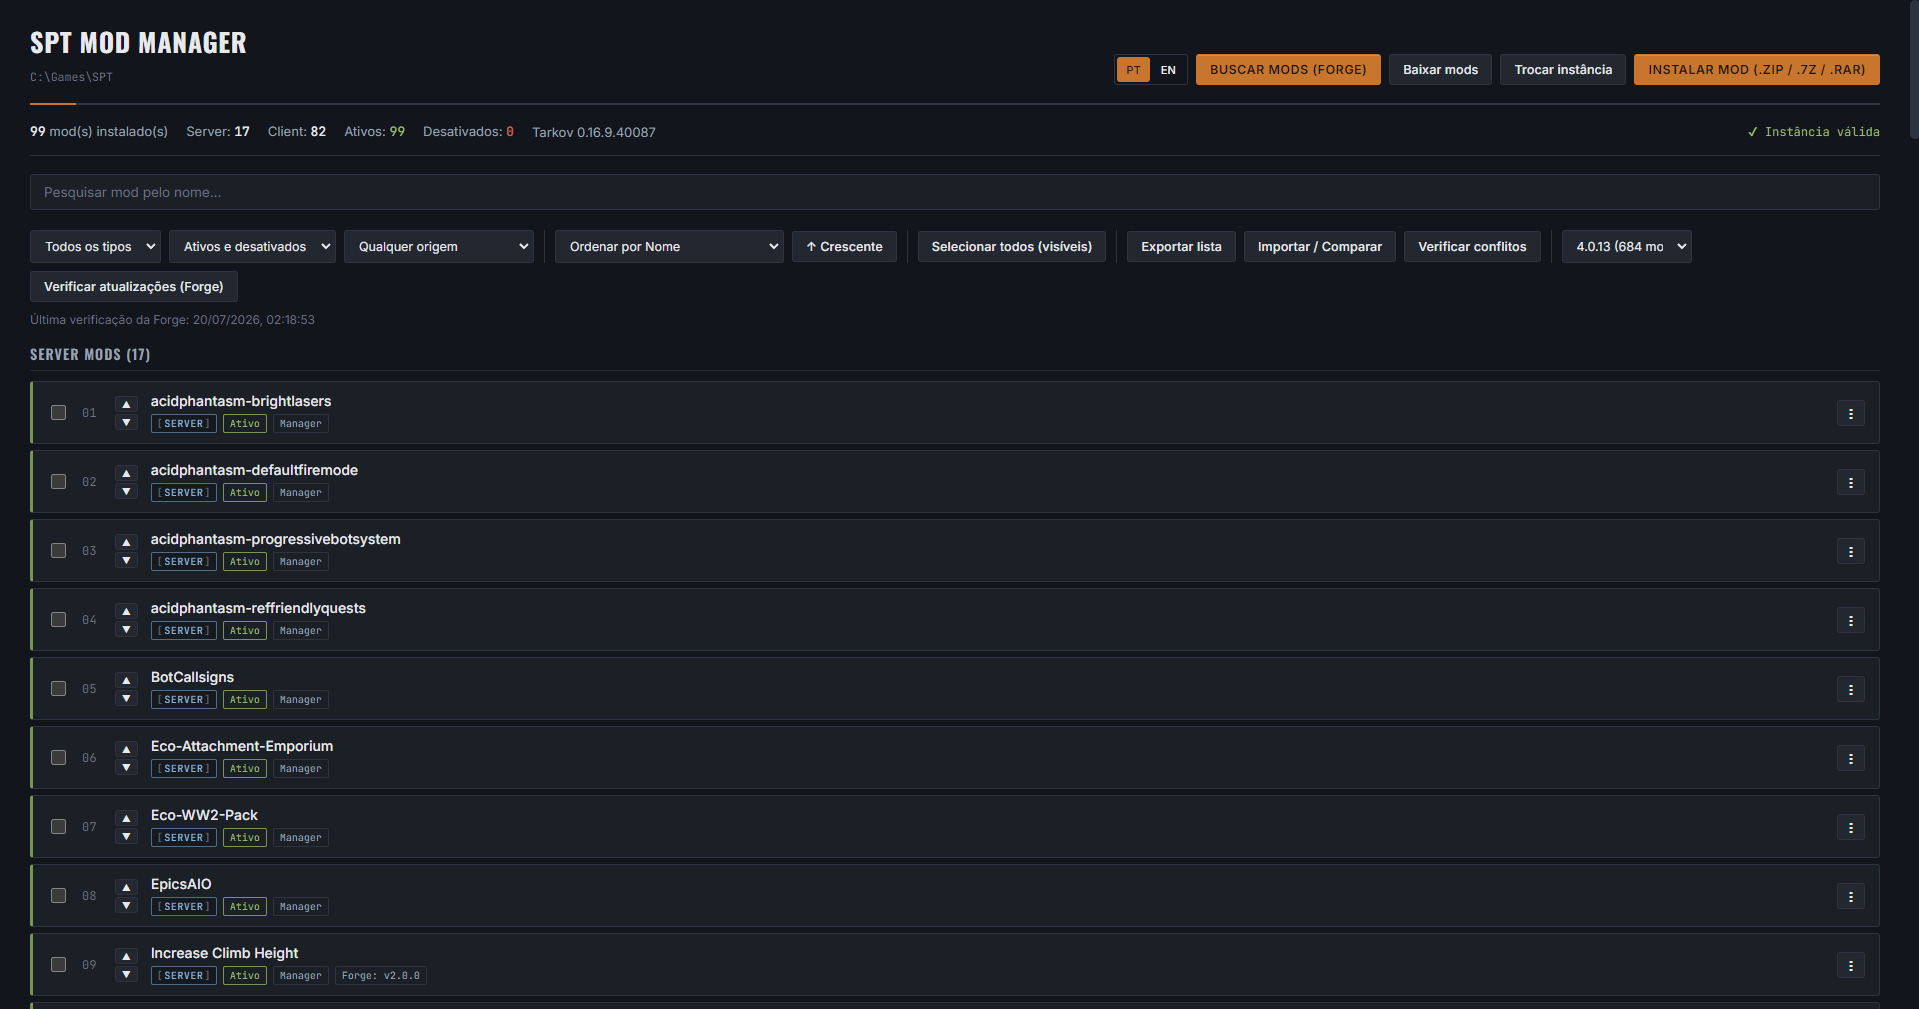
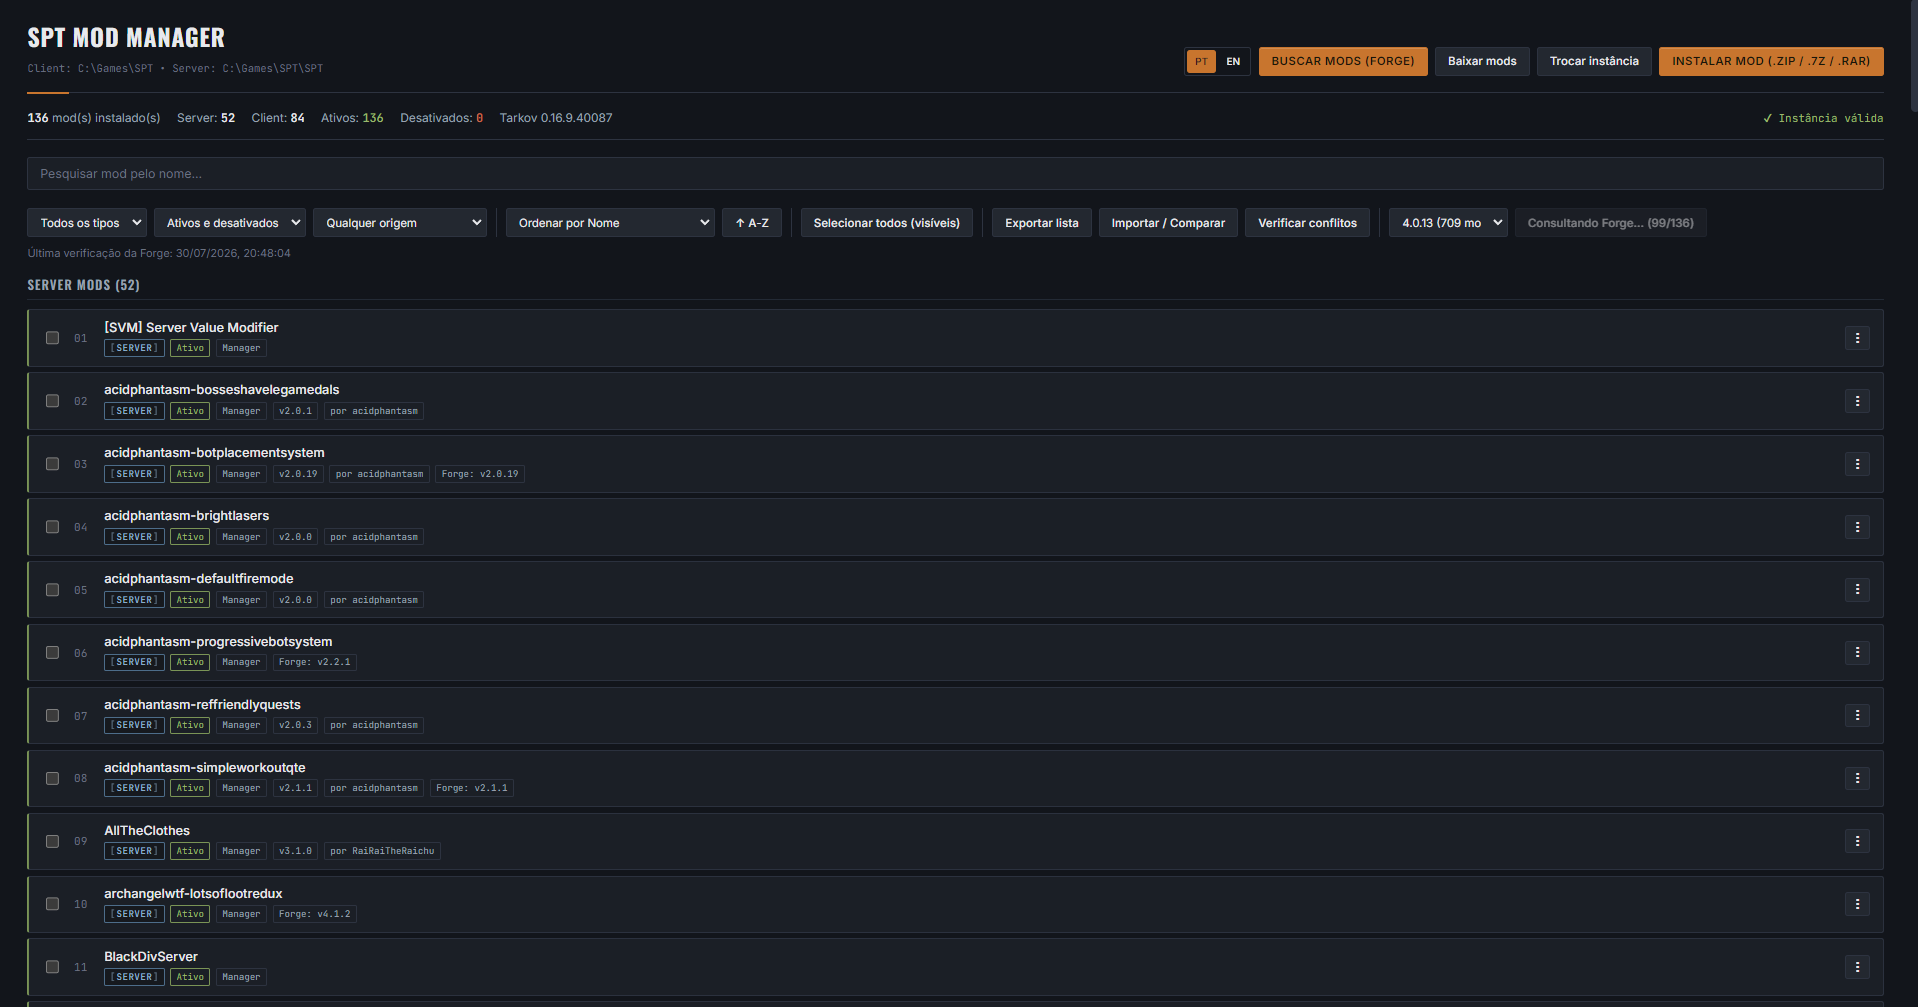
docs: update the Forge integration section and updated photos
It still described matching as name-based, which stopped being true when
GUID matching landed, and mentioned the rate limit without saying what it
costs in practice.

- describe GUID-first matching and the name-based fallback
- state the rate limits and what they mean: roughly a second per mod
  without a GUID, so a first check on a large install takes about a minute
- document the match cache and the resulting first-run vs later-run timings
- list the manifest and cache control files, which were missing

diff --git a/README_pt-BR.md b/README_pt-BR.md
@@ -129,18 +129,24 @@ spt-mod-manager/
 Isso era uma coisa manual (setas pra cima/baixo renomeando pastas com prefixo numérico, `01_nomedomod`, `02_outromod`, ...) pros server mods da era SPT 3.11, que carregam em ordem alfabética. A partir do SPT 4.0, os mods parecem cuidar da própria ordem de carregamento sozinhos — forçar um prefixo numérico manualmente causou problema de verdade, então as setas e a lógica de renomear por trás delas foram removidas. O app ainda lê um prefixo numérico existente se a pasta já tiver um (pra exibição e ordenação), só não escreve mais nenhum.
 
 ### Arquivos de controle (na raiz da instância)
-- `.spt-mod-manager-registry.json` — quais mods foram instalados pelo app (pra diferenciar de "instalado manualmente")
+- `.spt-mod-manager-registry.json` — quais mods foram instalados pelo app (pra diferenciar de "instalado manualmente"), junto com o que a Forge informou na hora da instalação
 - `.spt-mod-manager-aliases.json` — nomes de exibição customizados (renomear não mexe em arquivo real)
+- `.spt-mod-manager-manifest.json` — arquivos soltos que vieram com um mod mas ficam fora da pasta dele, pra poderem ser removidos junto
+- `.spt-mod-manager-forge-match.json` — identificadores da Forge já resolvidos, pra checagem de atualização não redescobrir tudo toda vez (ver abaixo)
 
 ### Instalação "inteligente"
 Ao instalar um `.zip`/`.7z`/`.rar`, o app procura recursivamente (não só na raiz do arquivo) por uma pasta que contenha `user/` e/ou `BepInEx/` — isso cobre tanto mods "prontos pra copiar" quanto mods embrulhados numa pasta extra. Se não achar essa estrutura, tenta identificar se é um server mod (por `package.json`) ou client mod (por `.dll`) e instala na pasta certa.
 
 ### Integração com a Forge
-O app conversa com a API pública da [Forge](https://forge.sp-tarkov.com) (`forge.sp-tarkov.com/api/v0`) — a plataforma oficial de mods do próprio time do SPT. É só leitura, não precisa de chave de API, e tem limite de uso generoso (40 requisições/10s em rajada, 200/60s sustentado); o app respeita isso com um pequeno intervalo entre requisições quando checa vários mods de uma vez.
+O app conversa com a API pública da [Forge](https://forge.sp-tarkov.com) (`forge.sp-tarkov.com/api/v0`) — a plataforma oficial de mods do próprio time do SPT. É só leitura e não precisa de chave de API.
 
-Como o app só rastreia o *nome* do mod localmente (não um ID da Forge), o casamento com o catálogo é feito por nome — usando o nome verdadeiro derivado da pasta, não um apelido de exibição, então renomear um mod pra sua própria organização nunca quebra a busca. É uma heurística, e pode ocasionalmente não achar um mod com nome muito genérico ou que não está listado na Forge.
+**Como um mod instalado é ligado ao registro dele na Forge.** Mods de SPT 4.0 declaram um GUID (`com.autor.mod`) dentro da DLL compilada, e o app lê de lá. Esse é o caminho bom: o GUID é exato, e a API da Forge aceita vários de uma vez, então a maioria dos mods resolve numa requisição só. Quem não declara GUID cai num plano B que deriva candidatos do nome da pasta — slug, nome, nome sem o prefixo do autor, e por fim busca textual —, verificando cada resultado antes de aceitar, porque casar errado é pior que não casar. O casamento sempre usa o nome real derivado da pasta, nunca o apelido de exibição, então renomear um mod pra sua própria organização não quebra nada.
 
-Vale saber: a partir do SPT 4.0, mods server pararam de declarar a versão no `package.json` (essa convenção migrou pra uma classe de metadados dentro do próprio código do mod) — então boa parte dos mods instalados simplesmente não tem versão legível localmente pra comparar. Pra esses, o app ainda busca na Forge e mostra a versão mais recente conhecida como informação, sem alegar que uma atualização está "disponível" (já que não tem nada local pra comparar).
+**Limite de requisições, e o que isso significa na prática.** A Forge limita por IP: 40 requisições a cada 10 segundos (rajada) e 200 a cada 60 segundos (sustentado). O app trabalha logo abaixo do limite sustentado e respeita o cabeçalho `Retry-After` caso seja barrado. Na prática o limite sustentado é o que manda, então um mod que precisa passar pelas quatro estratégias por nome custa pouco mais de um segundo — uma primeira checagem numa instalação grande pode levar perto de um minuto. Mods com GUID pulam tudo isso.
+
+Por causa desse custo, os identificadores resolvidos ficam em cache por instância (`.spt-mod-manager-forge-match.json`), pra que as checagens seguintes resolvam tudo na requisição em lote. Numa instalação de ~140 mods, isso é cerca de um minuto na primeira vez e uns poucos segundos depois.
+
+**Versões.** A partir do SPT 4.0, mods de servidor pararam de declarar a versão no `package.json` — isso migrou pra uma classe de metadados dentro do próprio código do mod, que o app lê da DLL. Um mod sem versão legível localmente ainda é consultado, e a versão mais recente conhecida na Forge aparece como informação, não como atualização disponível, já que não há nada local pra comparar.
 
 ---
 
@@ -178,7 +184,7 @@ Ainda na fila:
 
 ---
 
-## 🤝 Contribuindo
+## Contribuindo
 
 Projeto pessoal, mas issues e PRs são bem-vindos. Se for mexer em algo grande, abre uma issue antes pra alinhar.
 

diff --git a/README.md b/README.md
@@ -130,18 +130,24 @@ spt-mod-manager/
 This was a manual thing (up/down buttons renaming folders with a numeric prefix, `01_modname`, `02_othermod`, ...) for SPT 3.11-era server mods, which load in alphabetical order. Starting with SPT 4.0, mods appear to handle their own load order automatically — manually forcing a numeric prefix caused real problems, so the reorder buttons and the renaming logic behind them were removed. The app still reads an existing numeric prefix if a folder has one (for display and sorting), it just never writes one anymore.
 
 ### Control files (at the instance root)
-- `.spt-mod-manager-registry.json` — tracks which mods were installed by the app (to tell them apart from "manually installed")
+- `.spt-mod-manager-registry.json` — tracks which mods were installed by the app (to tell them apart from "manually installed"), along with the details Forge reported at install time
 - `.spt-mod-manager-aliases.json` — custom display names (renaming doesn't touch any real file)
+- `.spt-mod-manager-manifest.json` — loose files that came with a mod but live outside its own folder, so they can be removed with it
+- `.spt-mod-manager-forge-match.json` — cached Forge identifiers, so an update check doesn't re-derive them every time (see below)
 
 ### "Smart" installation
 When installing a `.zip`/`.7z`/`.rar`, the app searches recursively (not just at the archive's root) for a folder containing `user/` and/or `BepInEx/` — this covers both "ready to copy" mods and mods wrapped in an extra folder. If that structure isn't found, it tries to identify whether it's a server mod (via `package.json`) or a client mod (via `.dll`) and installs it in the right place.
 
 ### Forge integration
-The app talks to [Forge](https://forge.sp-tarkov.com)'s public API (`forge.sp-tarkov.com/api/v0`) — the SPT team's own official mod platform. It's read-only, needs no API key, and is rate-limited generously (40 requests/10s burst, 200/60s sustained); the app respects this with a small delay between requests when checking many mods at once.
+The app talks to [Forge](https://forge.sp-tarkov.com)'s public API (`forge.sp-tarkov.com/api/v0`) — the SPT team's own official mod platform. It's read-only and needs no API key.
 
-Since the app only tracks a mod's *name* locally (not a Forge ID), matching against Forge's catalog is done by name — using the mod's real, folder-derived name rather than a display alias, so renaming a mod for your own organization never breaks the match. This is a heuristic, and can occasionally miss a mod with a very generic name or one that isn't listed on Forge.
+**Matching an installed mod to its Forge entry.** SPT 4.0 mods declare a GUID (`com.author.mod`) inside their compiled DLL, and the app reads it from there. That's the good path: the GUID is exact, and Forge's API accepts them in batches, so most mods resolve in a single request. Mods that don't declare one fall back to deriving candidates from the folder name — slug, name, name without the author prefix, then a full-text search — verifying each result before accepting it, since a wrong match is worse than no match. Matching always uses the mod's real folder-derived name, never a display alias, so renaming a mod for your own organization can't break it.
 
-Worth knowing: starting with SPT 4.0, server mods no longer declare their version in `package.json` (that convention moved to a metadata class inside the mod's own code) — so plenty of installed mods simply have no locally-readable version to compare against. For those, the app still looks them up on Forge and shows the latest known version as information, without claiming an update is "available" (since there's nothing local to compare it to).
+**Rate limits, and what they mean for you.** Forge limits requests per IP: 40 per 10 seconds (burst) and 200 per 60 seconds (sustained). The app paces itself just under the sustained limit and honours the `Retry-After` header if it's ever throttled. In practice the sustained window is the binding one, so a mod that has to go through all four name-based strategies costs a bit over a second — a first update check on a large install can take around a minute. Mods with a GUID skip all of that.
+
+Because of that cost, resolved identifiers are cached per instance (`.spt-mod-manager-forge-match.json`), so later checks resolve everything in the batched request instead. On a ~140-mod install that's roughly a minute for the first check and a couple of seconds afterwards.
+
+**Versions.** Starting with SPT 4.0, server mods no longer declare their version in `package.json` — that moved into a metadata class inside the mod's own code, which the app reads from the DLL. A mod with no readable local version still gets looked up, and the latest known Forge version is shown as information rather than as an available update, since there's nothing local to compare it against.
 
 ---
 
